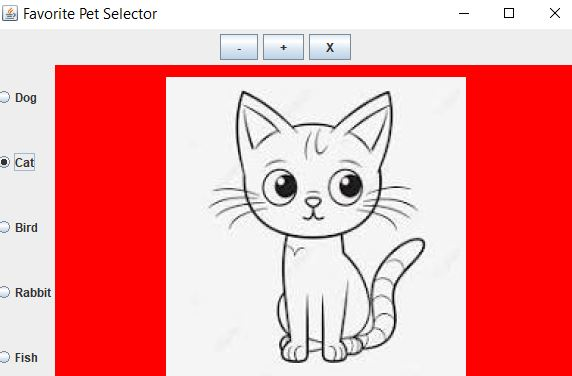
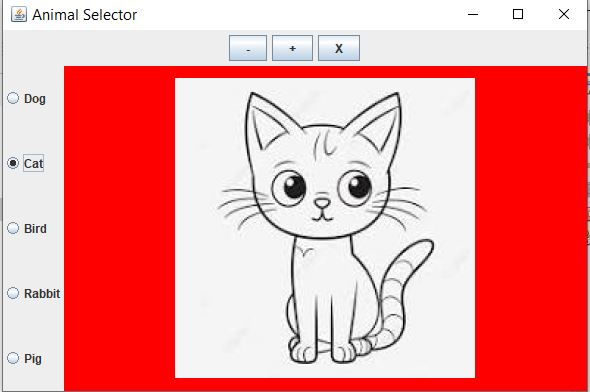
Updated Fish to pig

Changed region(s): [[0.0, 0.0, 1.0, 1.0], [0.8619, 0.0, 0.8916, 0.0585]]

diff --git a/src/main/java/com/mycompany/selectfavepet/SelectFavePet.java b/src/main/java/com/mycompany/selectfavepet/SelectFavePet.java
@@ -17,7 +17,7 @@ public class SelectFavePet extends JFrame implements ActionListener {
     private final JRadioButton catButton;
     private final JRadioButton birdButton;
     private final JRadioButton rabbitButton;
-    private final JRadioButton fishButton;
+    private final JRadioButton pigButton;
     private final ButtonGroup group;
     
     // Label to display the image
@@ -25,7 +25,7 @@ public class SelectFavePet extends JFrame implements ActionListener {
 
     public SelectFavePet() {
         // Set the title of the JFrame
-        setTitle("Favorite Pet Selector");
+        setTitle("Animal Selector");
         
         // Set the default close operation
         setDefaultCloseOperation(JFrame.EXIT_ON_CLOSE);
@@ -38,7 +38,7 @@ public class SelectFavePet extends JFrame implements ActionListener {
         catButton = new JRadioButton("Cat");
         birdButton = new JRadioButton("Bird");
         rabbitButton = new JRadioButton("Rabbit");
-        fishButton = new JRadioButton("Fish");
+        pigButton = new JRadioButton("Pig");
 
         // Group the radio buttons to allow only one selection at a time
         group = new ButtonGroup();
@@ -46,14 +46,14 @@ public class SelectFavePet extends JFrame implements ActionListener {
         group.add(catButton);
         group.add(birdButton);
         group.add(rabbitButton);
-        group.add(fishButton);
+        group.add(pigButton);
 
         // Add action listeners for the radio buttons
         dogButton.addActionListener(this);
         catButton.addActionListener(this);
         birdButton.addActionListener(this);
         rabbitButton.addActionListener(this);
-        fishButton.addActionListener(this);
+        pigButton.addActionListener(this);
 
         // Label to display images
         imageLabel = new JLabel();
@@ -69,7 +69,7 @@ public class SelectFavePet extends JFrame implements ActionListener {
         buttonPanel.add(catButton);
         buttonPanel.add(birdButton);
         buttonPanel.add(rabbitButton);
-        buttonPanel.add(fishButton);
+        buttonPanel.add(pigButton);
 
         // Add the button panel and image label to the frame
         add(buttonPanel, BorderLayout.WEST);
@@ -106,13 +106,13 @@ public class SelectFavePet extends JFrame implements ActionListener {
     }
 
     private void askFavoritePet() {
-        String[] options = {"Dog", "Cat", "Bird", "Rabbit", "Fish"};
+        String[] options = {"Dog", "Cat", "Bird", "Rabbit", "Pig"};
         
         // Show a dialog to the user to select their favorite pet
         String selectedPet = (String) JOptionPane.showInputDialog(
                 this, 
-                "What is your favorite pet?", 
-                "Select Your Favorite Pet", 
+                "What is your favorite Animal?", 
+                "Select Your Favorite Animal", 
                 JOptionPane.QUESTION_MESSAGE, 
                 null, 
                 options, 
@@ -143,7 +143,7 @@ public class SelectFavePet extends JFrame implements ActionListener {
                 setImage("C:\\Users\\Anisha.Amondi\\OneDrive - Osho chemical Industries Ltd\\Documents\\NetBeansProjects\\SelectFavePet\\images\\Rabbit.png");
                 break;
             case "Fish":
-                fishButton.setSelected(true);
+                pigButton.setSelected(true);
                 setImage("C:\\Users\\Anisha.Amondi\\OneDrive - Osho chemical Industries Ltd\\Documents\\NetBeansProjects\\SelectFavePet\\images\\Fish.png");
                 break;
         }
@@ -160,8 +160,8 @@ public class SelectFavePet extends JFrame implements ActionListener {
             setImage("C:\\Users\\Anisha.Amondi\\OneDrive - Osho chemical Industries Ltd\\Documents\\NetBeansProjects\\SelectFavePet\\images\\Bird.png");
         } else if (rabbitButton.isSelected()) {
             setImage("C:\\Users\\Anisha.Amondi\\OneDrive - Osho chemical Industries Ltd\\Documents\\NetBeansProjects\\SelectFavePet\\images\\Rabbit.png");
-        } else if (fishButton.isSelected()) {
-            setImage("C:\\Users\\Anisha.Amondi\\OneDrive - Osho chemical Industries Ltd\\Documents\\NetBeansProjects\\SelectFavePet\\images\\Fish.png");
+        } else if (pigButton.isSelected()) {
+            setImage("C:\\Users\\Anisha.Amondi\\OneDrive - Osho chemical Industries Ltd\\Documents\\NetBeansProjects\\SelectFavePet\\images\\Pig.jpeg");
         }
     }
 
